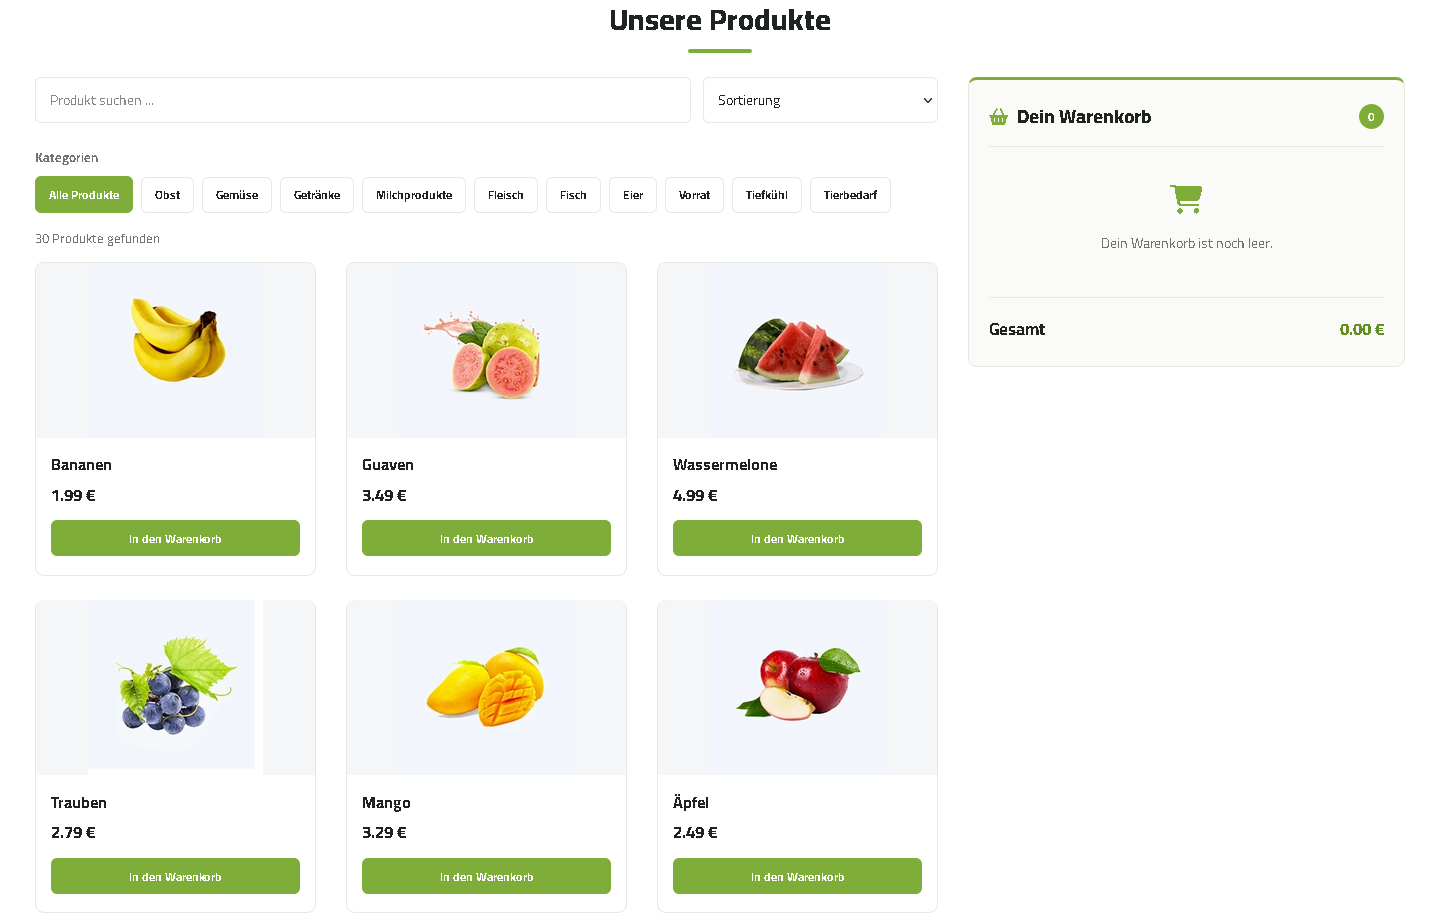
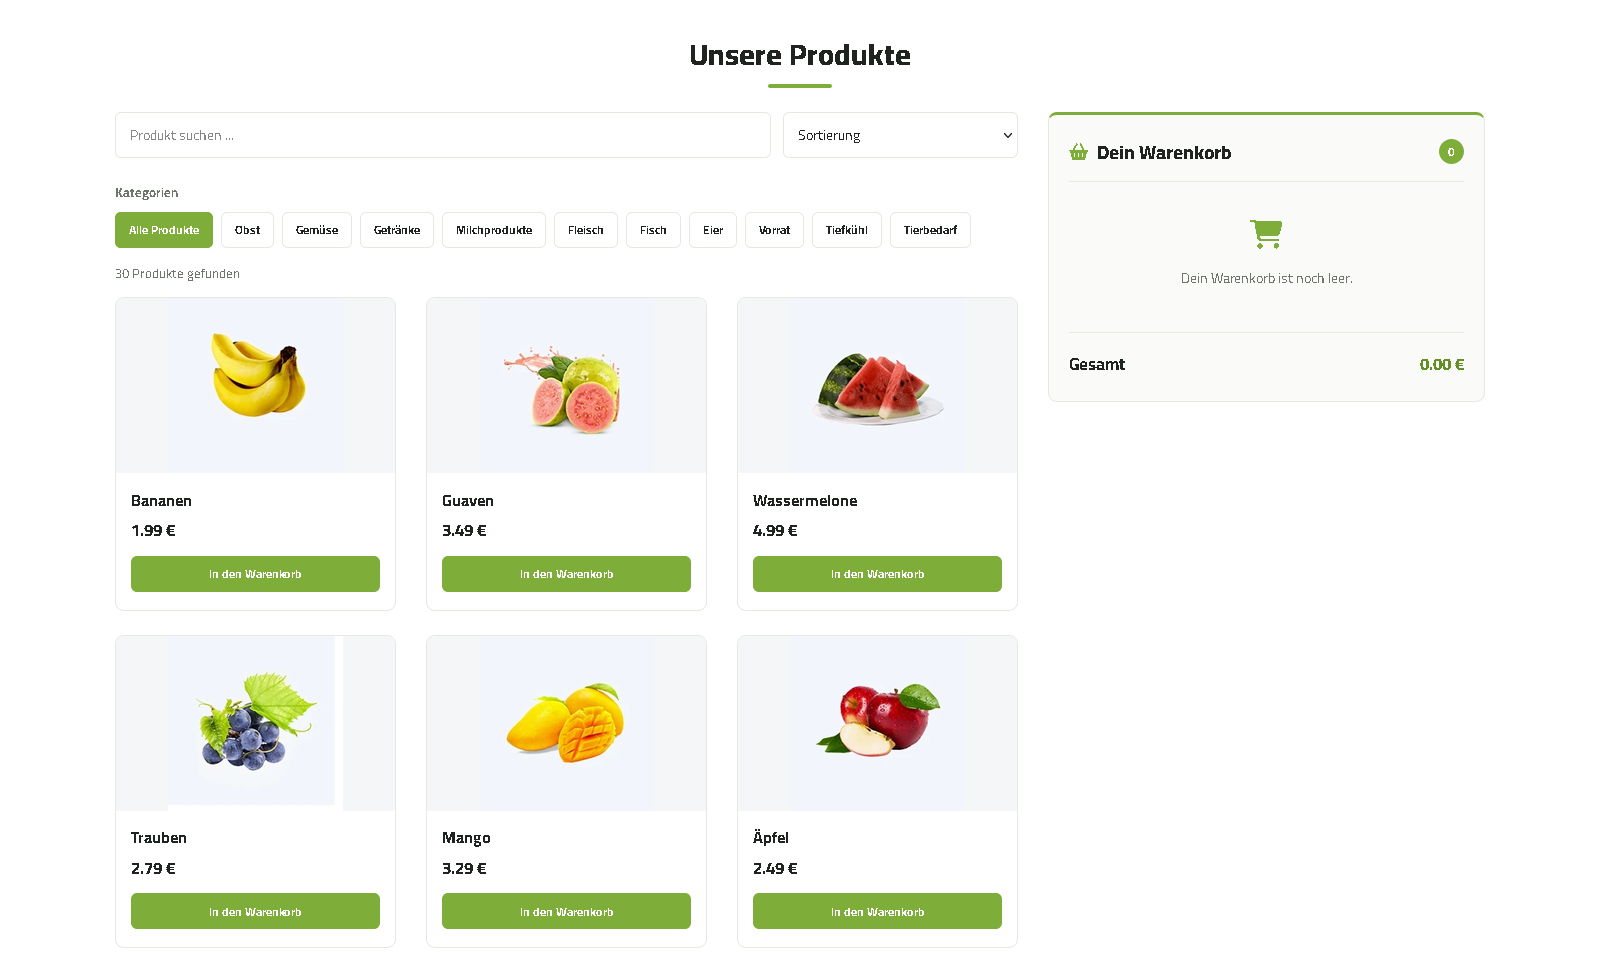
README und Screenshots aktualisieren

diff --git a/README.md b/README.md
@@ -1,6 +1,6 @@
 # FrischKorb
 
-FrischKorb ist mein Projekt aus dem JavaScript- und AJAX-Kurs. Ich wollte einen kleinen Shop bauen, in dem man Produkte suchen und einen Warenkorb zusammenstellen kann.
+FrischKorb ist ein kleiner Online-Shop. Man kann Produkte suchen, nach Kategorien filtern, sortieren und in den Warenkorb legen. Dort lassen sich Mengen ändern, einzelne Artikel entfernen und der Gesamtpreis wird automatisch berechnet.
 
 ## Funktionen
 
@@ -8,6 +8,7 @@ FrischKorb ist mein Projekt aus dem JavaScript- und AJAX-Kurs. Ich wollte einen 
 - Suche nach Produktnamen und Filter nach Kategorien
 - Sortieren nach Name oder Preis
 - Warenkorb mit Plus, Minus und Löschen
+- **Alle löschen** erscheint, sobald mehr als zwei verschiedene Produkte im Warenkorb liegen
 - Gesamtpreis wird automatisch berechnet
 - Warenkorb bleibt durch LocalStorage auch nach dem Neuladen gespeichert
 
@@ -17,13 +18,13 @@ FrischKorb ist mein Projekt aus dem JavaScript- und AJAX-Kurs. Ich wollte einen 
 
 ![Startseite von FrischKorb](docs/screenshots/startseite.png)
 
-**Produktübersicht**
+**Produktübersicht mit Suche, Sortierung und Kategorien**
 
-![Produkte und Kategorien](docs/screenshots/produkte.png)
+![Produkte in FrischKorb](docs/screenshots/produkte.png)
 
-**Warenkorb**
+**Warenkorb mit drei verschiedenen Produkten und „Alle löschen“**
 
-![Warenkorb mit Mengensteuerung](docs/screenshots/warenkorb.png)
+![Warenkorb mit Mengensteuerung und Alle-löschen-Button](docs/screenshots/warenkorb.png)
 
 ## Technologien
 
@@ -39,5 +40,3 @@ Den Ordner in VS Code öffnen und `index.html` mit **Live Server** starten. Die 
 - `js/main.js` – JavaScript für Produkte und Warenkorb
 - `data/products.json` – Produktliste
 - `css/`, `assets/` und `img/` – Design, Icons und Bilder
-
-*Für das Grundlayout habe ich Elemente aus dem Ogani-Template von Colorlib angepasst.*
